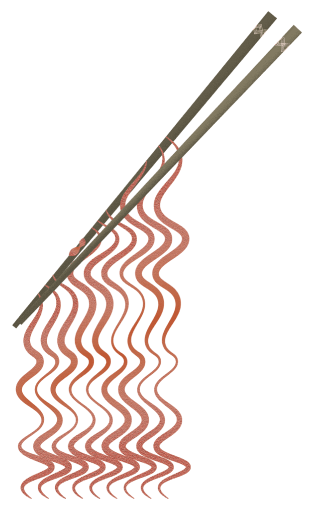
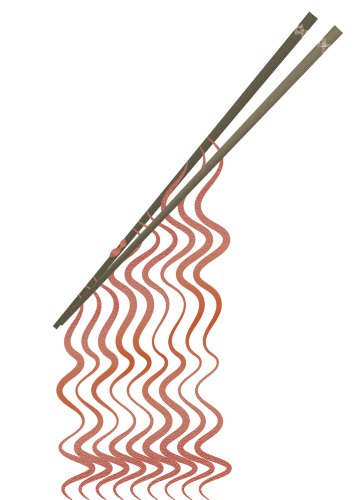
refactored infinite scroll

Changed region(s): [[0.0287, 0.0, 0.9745, 1.0]]

diff --git a/packages/infinite-scroll/src/image-list-container.tsx b/packages/infinite-scroll/src/image-list-container.tsx
@@ -1,81 +1,41 @@
-import { flatten, map, pipe } from "ramda";
-import React, { FC, useEffect, useMemo, useRef, useState } from "react";
+import debounce from "lodash.debounce";
+import React, { FC, useCallback, useEffect, useMemo, useState } from "react";
 import { useSWRInfinite } from "swr";
+import { ImageList } from "./image-list";
+import { getUrlByIndex, mapPhotos } from "./image-list-services";
 import {
   BowlImage,
   BowlImageWrapper,
   ChopsticksImage,
   ChopsticksImageWrapper,
-  ImageList,
   ImageListContainerRoot,
 } from "./image-list.styled";
-
-const fetcher = async (...args: Parameters<typeof fetch>) => {
-  const response = await fetch(...args);
-  return response.json();
-};
+import { ApiPhoto } from "./types";
 
 export const ImageListContainer: FC = () => {
-  const { data, error, setSize } = useSWRInfinite<ApiPhoto[]>(
-    (index) =>
-      `https://api.unsplash.com/photos/random?client_id=jFgS8tteGD425f4oZfygQVaVnD6gt6GucN2yyz3xFek&count=${
-        index === 0 ? 5 : 20
-      }`,
-    fetcher,
-    {
-      revalidateOnFocus: false,
-      revalidateOnReconnect: false,
-    },
-  );
-
-  const imagesLoadedRef = useRef<boolean>(false);
-  const [imagesLoadedCount, setImagesLoadedCount] = useState<number>(0);
+  const { data, error, setSize } = useSWRInfinite<ApiPhoto[]>(getUrlByIndex);
   const [windowScrollY, setWindowScrollY] = useState<number>(0);
 
-  const photos = useMemo(() => {
-    if (!data) return;
-    return pipe<ApiPhoto[][], ApiPhoto[], Photo[]>(
-      flatten,
-      map((d) => ({
-        id: d.id,
-        url: d.urls.small,
-        alt: d.alt_description,
-      })),
-    )(data);
-  }, [data]);
+  const photos = useMemo(() => data && mapPhotos(data), [data]);
 
   useEffect(() => {
-    if (imagesLoadedCount > 0 && imagesLoadedCount === photos?.length) {
-      imagesLoadedRef.current = true;
-    }
-  }, [imagesLoadedCount, photos?.length]);
-
-  useEffect(() => {
-    const handleImageLoad = () => {
-      if (
-        window.innerHeight + window.scrollY >=
-          document.body.offsetHeight - 1000 &&
-        imagesLoadedRef.current
-      ) {
-        imagesLoadedRef.current = false;
-        setSize((s) => s + 1);
-      }
-    };
-
-    const listenScroll = () => {
-      handleImageLoad();
+    const handleWindowScroll = debounce(() => {
       setWindowScrollY(window.scrollY);
-    };
+    }, 30);
 
-    window.addEventListener("scroll", listenScroll);
-    return () => window.removeEventListener("scroll", listenScroll);
+    window.addEventListener("scroll", handleWindowScroll);
+    return () => window.removeEventListener("scroll", handleWindowScroll);
+  }, [setSize]);
+
+  const handleScrolledToBottom = useCallback(() => {
+    setSize((s) => s + 1);
   }, [setSize]);
 
   if (!photos) return <>loading...</>;
   if (error) return <>Oops!</>;
 
-  const handleImageLoad = () => {
-    setImagesLoadedCount((c) => c + 1);
+  const bowlImageWrapperStyle = {
+    paddingBottom: `calc(var(--top-bottom-space) - ${windowScrollY}px)`,
   };
 
   return (
@@ -83,44 +43,10 @@ export const ImageListContainer: FC = () => {
       <ChopsticksImageWrapper>
         <ChopsticksImage />
       </ChopsticksImageWrapper>
-      <ImageList>
-        {photos.map(({ id, url, alt }) => (
-          <img
-            key={id}
-            src={url}
-            onLoad={() => handleImageLoad()}
-            alt={alt}
-            width="100%"
-          />
-        ))}
-      </ImageList>
-      <BowlImageWrapper
-        style={{
-          paddingBottom: `calc(var(--top-bottom-space) - ${windowScrollY}px)`,
-        }}
-      >
+      <ImageList photos={photos} onScrolledToBottom={handleScrolledToBottom} />
+      <BowlImageWrapper style={bowlImageWrapperStyle}>
         <BowlImage />
       </BowlImageWrapper>
     </ImageListContainerRoot>
   );
 };
-
-export interface Urls {
-  raw: string;
-  full: string;
-  regular: string;
-  small: string;
-  thumb: string;
-}
-
-export interface ApiPhoto {
-  id: string;
-  urls: Urls;
-  alt_description: string;
-}
-
-export interface Photo {
-  id: string;
-  url: string;
-  alt: string;
-}

diff --git a/packages/infinite-scroll/src/image-list.styled.tsx b/packages/infinite-scroll/src/image-list.styled.tsx
@@ -9,15 +9,15 @@ import noodlesUpLG from "./assets/noodles-up-lg.png";
 const backgroundColor = "#f2ebdf";
 const chopsticksImage = {
   height: {
-    downMD: 304,
-    upLG: 510,
+    downMD: 290,
+    upLG: 500,
   },
 };
 
 const bowlImage = {
   height: {
-    downMD: 153,
-    upLG: 257,
+    downMD: 150,
+    upLG: 258,
   },
 };
 
@@ -26,17 +26,15 @@ export const ChopsticksImage = styled.div`
   ${({ theme }) =>
     css`
       ${theme.breakpoints.down("md")} {
-        width: 187px;
+        width: 206px;
         height: ${chopsticksImage.height.downMD}px;
         background-image: url(${chopsticksDownMD});
-        transform: translateX(20px);
       }
 
       ${theme.breakpoints.up("lg")} {
-        width: 314px;
+        width: 354px;
         height: ${chopsticksImage.height.upLG}px;
         background-image: url(${chopsticksUpLG});
-        transform: translateX(34px);
       }
     `}
 `;
@@ -45,24 +43,25 @@ export const ChopsticksImageWrapper = styled.div`
   padding-top: var(--top-bottom-space);
 `;
 
-export const ImageList = styled.div`
+export const ImageListRoot = styled.div`
   display: grid;
   background-repeat: repeat-y;
+  justify-items: center;
 
   ${({ theme }) =>
     css`
       ${theme.breakpoints.down("md")} {
-        width: 140px;
+        width: 179px;
         background-image: url(${noodlesDownMD});
         grid-row-gap: ${theme.spacing(1)}px;
       }
 
       ${theme.breakpoints.up("lg")} {
-        width: 240px;
+        width: 308px;
         background-image: url(${noodlesUpLG});
         grid-row-gap: ${theme.spacing(2)}px;
       }
-    `}
+    `};
 `;
 
 export const BowlImage = styled.div`
@@ -71,14 +70,14 @@ export const BowlImage = styled.div`
   ${({ theme }) =>
     css`
       ${theme.breakpoints.down("md")} {
-        width: 193px;
-        height: 153px;
+        width: 180px;
+        height: ${bowlImage.height.downMD}px;
         background-image: url(${bowlDownMd});
       }
 
       ${theme.breakpoints.up("lg")} {
-        width: 325px;
-        height: 257px;
+        width: 309px;
+        height: ${bowlImage.height.upLG}px;
         background-image: url(${bowlUpLg});
       }
     `}

diff --git a/packages/infinite-scroll/src/image-list.tsx b/packages/infinite-scroll/src/image-list.tsx
@@ -1,0 +1,54 @@
+import React, { FC, memo, useEffect, useRef, useState } from "react";
+import { ImageListRoot } from "./image-list.styled";
+import { Photo } from "./types";
+
+interface ImageListProps {
+  photos: Photo[];
+  onScrolledToBottom: () => void;
+}
+
+export const ImageList: FC<ImageListProps> = memo((props) => {
+  const { photos, onScrolledToBottom } = props;
+  const imagesLoadedRef = useRef<boolean>(false);
+  const [imagesLoadedCount, setImagesLoadedCount] = useState<number>(0);
+
+  useEffect(() => {
+    if (imagesLoadedCount > 0 && imagesLoadedCount === photos?.length) {
+      imagesLoadedRef.current = true;
+    }
+  }, [imagesLoadedCount, photos?.length]);
+
+  useEffect(() => {
+    const handleScrolledToBottom = () => {
+      const isScrolledToBottom =
+        window.innerHeight + window.scrollY >=
+        document.body.offsetHeight - 1000;
+
+      if (isScrolledToBottom && imagesLoadedRef.current) {
+        imagesLoadedRef.current = false;
+        onScrolledToBottom();
+      }
+    };
+
+    window.addEventListener("scroll", handleScrolledToBottom);
+    return () => window.removeEventListener("scroll", handleScrolledToBottom);
+  }, [onScrolledToBottom]);
+
+  const handleImageLoad = () => {
+    setImagesLoadedCount((c) => c + 1);
+  };
+
+  return (
+    <ImageListRoot>
+      {photos.map(({ id, url, alt }) => (
+        <img
+          key={id}
+          src={url}
+          onLoad={() => handleImageLoad()}
+          alt={alt}
+          width="80%"
+        />
+      ))}
+    </ImageListRoot>
+  );
+});

diff --git a/packages/portal/src/app.tsx b/packages/portal/src/app.tsx
@@ -1,11 +1,21 @@
 import React, { FC } from "react";
+import { SWRConfig } from "swr";
 import { GlobalStyle } from "./global-styles";
 import { Routes } from "./routes";
 import { ThemeProvider } from "./theme-provider";
 
 export const App: FC = () => (
   <ThemeProvider>
-    <GlobalStyle />
-    <Routes />
+    <SWRConfig
+      value={{
+        revalidateOnFocus: false,
+        revalidateOnReconnect: false,
+        fetcher: (...args: Parameters<typeof fetch>) =>
+          fetch(...args).then((res) => res.json()),
+      }}
+    >
+      <GlobalStyle />
+      <Routes />
+    </SWRConfig>
   </ThemeProvider>
 );

diff --git a/packages/infinite-scroll/src/image-list-services.ts b/packages/infinite-scroll/src/image-list-services.ts
@@ -1,0 +1,16 @@
+import { flatten, map, pipe } from "ramda";
+import { ApiPhoto, Photo } from "./types";
+
+export const getUrlByIndex = (index: number) =>
+  `https://api.unsplash.com/photos/random?client_id=jFgS8tteGD425f4oZfygQVaVnD6gt6GucN2yyz3xFek&count=${
+    index === 0 ? 5 : 20
+  }`;
+
+export const mapPhotos = pipe<ApiPhoto[][], ApiPhoto[], Photo[]>(
+  flatten,
+  map((d) => ({
+    id: d.id,
+    url: d.urls.small,
+    alt: d.alt_description,
+  })),
+);

diff --git a/packages/infinite-scroll/src/types/api-photo.ts b/packages/infinite-scroll/src/types/api-photo.ts
@@ -1,0 +1,13 @@
+export interface Urls {
+  raw: string;
+  full: string;
+  regular: string;
+  small: string;
+  thumb: string;
+}
+
+export interface ApiPhoto {
+  id: string;
+  urls: Urls;
+  alt_description: string;
+}

diff --git a/packages/infinite-scroll/src/types/photo.ts b/packages/infinite-scroll/src/types/photo.ts
@@ -1,0 +1,5 @@
+export interface Photo {
+  id: string;
+  url: string;
+  alt: string;
+}

diff --git a/packages/infinite-scroll/src/types/index.ts b/packages/infinite-scroll/src/types/index.ts
@@ -1,0 +1,2 @@
+export * from "./api-photo";
+export * from "./photo";
